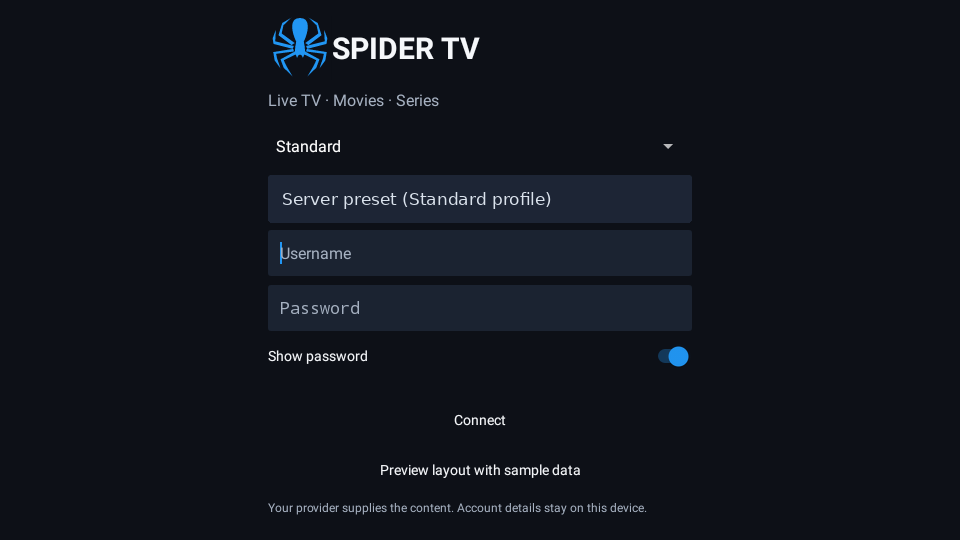
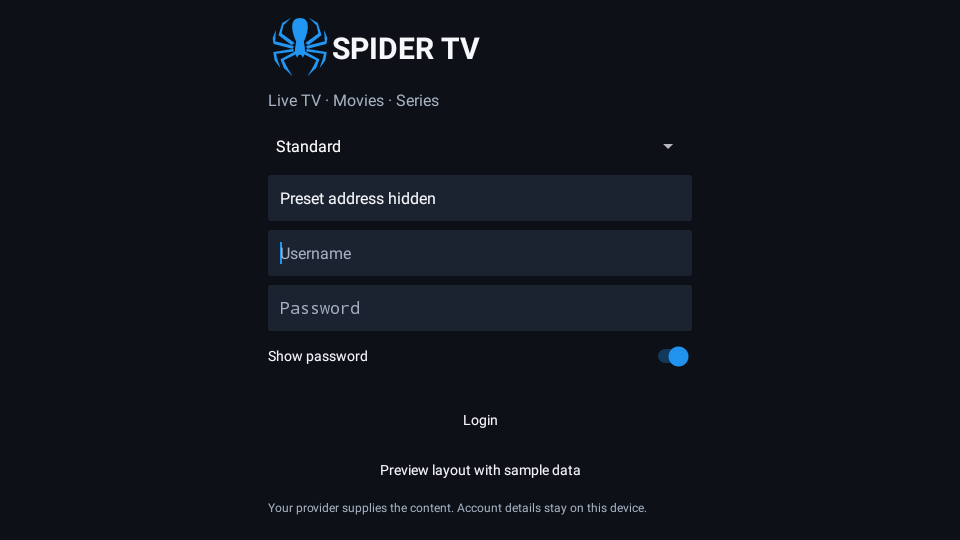
Document automatic Spider EPG and simplified test app login

Changed region(s): [[0.2812, 0.3556, 0.7188, 0.4148], [0.4688, 0.7704, 0.5312, 0.8]]

diff --git a/index.html b/index.html
@@ -4,7 +4,7 @@
 <meta charset="utf-8">
 <meta name="viewport" content="width=device-width,initial-scale=1,viewport-fit=cover">
 <meta name="theme-color" content="#081020">
-<meta name="description" content="SpiderTV Test setup instructions for Android TV, ONN 4K and compatible Fire TV devices. Install, connect your account, and add an EPG guide.">
+<meta name="description" content="SpiderTV Test setup instructions for Android TV, ONN 4K and compatible Fire TV devices. Install, log in, and get your TV guide automatically.">
 <meta property="og:title" content="SpiderTV | Setup Guide">
 <meta property="og:description" content="Easy steps to install SpiderTV, connect your account and set up the TV guide.">
 <meta property="og:image" content="assets/share-preview.jpg">
@@ -21,23 +21,21 @@
 </head><body>
 <nav><div class="nav-wrap"><a class="brand" href="#top"><img class="spider" src="assets/spidertv-logo.png" alt="SpiderTV spider logo"> SPIDER TV</a><div class="nav-links"><a href="#install">Install</a><a href="#login">Sign in</a><a href="#guide">EPG guide</a><a href="#help">Help</a></div></div></nav>
 <main id="top" class="wrap">
-<section class="hero" aria-label="SpiderTV setup"><div><div class="eyebrow">Android TV + compatible Fire TV · Test edition</div><h1>Your SpiderTV <span>setup guide.</span></h1><p class="lead">Follow the pictures to install the app, sign in with your account, and add TV guide information. No computer needed on your TV.</p><div class="buttons"><a class="btn" href="#install">Start setup <span aria-hidden="true">↓</span></a><a class="btn alt" href="https://github.com/coldspider13/SpiderTV-Test-Downloads/releases/latest/download/SpiderTV-Test-debug.apk" target="_blank" rel="noopener">Get the test APK ↗</a></div><div class="note">This is the <b>SpiderTV Test</b> app, not the regular SpiderTV installation. It can install alongside your existing SpiderTV. Use only an account and EPG link that you are authorized to access.</div></div><div class="hero-art"><img src="assets/spidertv-logo.png" alt="Blue SpiderTV spider logo and name"><div class="sub"><span>Simple instructions for your TV</span><span class="pill">BETA GUIDE</span></div></div></section>
-<section class="section" aria-label="Before you start"><div class="section-head"><span class="eyebrow">Before you start</span><h2>Have these ready</h2></div><div class="quick"><article><span class="number">1</span><strong>ONN 4K or compatible Fire TV</strong><p>Connect the device to Wi‑Fi and have its remote nearby.</p></article><article><span class="number">2</span><strong>Your SpiderTV account details</strong><p>You'll need the username and password provided to you privately.</p></article><article><span class="number">3</span><strong>Your TV guide link</strong><p>If you received a separate EPG/XMLTV URL, keep it handy. It may be a long web address.</p></article></div></section>
+<section class="hero" aria-label="SpiderTV setup"><div><div class="eyebrow">Android TV + compatible Fire TV · Test edition</div><h1>Your SpiderTV <span>setup guide.</span></h1><p class="lead">Open Downloader, enter <b>2240676</b>, then install and open SpiderTV Test. Enter your username and password and select <b>Login</b>. SpiderTV sets up the TV guide automatically.</p><div class="buttons"><a class="btn" href="#install">Start setup <span aria-hidden="true">↓</span></a><a class="btn alt" href="https://github.com/coldspider13/SpiderTV-Test-Downloads/releases/latest/download/SpiderTV-Test-debug.apk" target="_blank" rel="noopener">Get the test APK ↗</a></div><div class="note"><b>SpiderTV Test</b> installs alongside your existing SpiderTV app. You can start watching as soon as your channels load while the guide downloads in the background.</div></div><div class="hero-art"><img src="assets/spidertv-logo.png" alt="Blue SpiderTV spider logo and name"><div class="sub"><span>Simple instructions for your TV</span><span class="pill">BETA GUIDE</span></div></div></section>
+<section class="section" aria-label="Before you start"><div class="section-head"><span class="eyebrow">Before you start</span><h2>Have these ready</h2></div><div class="quick"><article><span class="number">1</span><strong>ONN 4K or compatible Fire TV</strong><p>Connect the device to Wi‑Fi and have its remote nearby.</p></article><article><span class="number">2</span><strong>Your SpiderTV account details</strong><p>You'll need the username and password provided to you privately.</p></article><article><span class="number">3</span><strong>Downloader by AFTVnews</strong><p>Install Downloader on your TV if it is missing. The setup code is <b>2240676</b>.</p></article></div></section>
 <section id="install" class="section"><div class="section-head"><span class="eyebrow">Part 1 · Installation</span><h2>Install SpiderTV Test</h2><p>These steps work with <b>Downloader by AFTVnews</b> on supported Android TV and Fire TV devices.</p></div>
 <div class="step"><div class="steptext"><span class="tag">Step 1</span><h3>Get the Downloader app</h3><ol><li>From your TV home screen, open the app store.</li><li>Search for <b>Downloader by AFTVnews</b> (orange app icon).</li><li>Choose <b>Install</b>, then <b>Open</b>.</li></ol><p>ONN 4K: use Google Play. Fire TV: use the Amazon Appstore if Downloader is offered on your device.</p></div><figure class="shot"><div class="mock"><div class="mocktitle">TV app store</div><div class="field">🔎 &nbsp; Search apps</div><div class="field focused" style="font-size:1.05rem;letter-spacing:0">Downloader by AFTVnews</div><div class="action">Install → Open</div></div><figcaption>Illustration of the app-store search. Your TV's actual app store may look different.</figcaption></figure></div>
 <div class="step reverse"><div class="steptext"><span class="tag">Step 2</span><h3>Enter the SpiderTV code</h3><ol><li>Open <b>Downloader</b>.</li><li>Select its URL / short-code box.</li><li>Enter <b>2240676</b>, then choose <b>Go</b>.</li><li>Let the APK download.</li></ol><div class="codebox"><div><small>Downloader code</small><div class="bigcode">2240676</div></div><button class="copy" type="button" data-copy="2240676">Copy code</button></div></div><figure class="shot"><div class="mock"><div class="mocktitle">Downloader</div><div class="tiny" style="text-align:center;color:#b7c8dd">Enter a URL or short code</div><div class="field focused">2240676</div><div class="action">Go</div></div><figcaption>Illustration of where to type the code in Downloader.</figcaption></figure></div>
 <div class="step"><div class="steptext"><span class="tag">Step 3</span><h3>Install and open SpiderTV</h3><ol><li>When the file finishes downloading, choose <b>Install</b>.</li><li>If your TV blocks it, open <b>Settings</b> on the prompt and allow Downloader to <b>Install unknown apps</b>.</li><li>Return to the installer, choose <b>Install</b>, then <b>Open</b>.</li></ol><div class="note warning">Only allow the install from Downloader when you are using the SpiderTV code given here. The exact permission wording varies by device.</div></div><figure class="shot"><div class="mock"><div class="mocktitle">TV installation permission</div><div class="field">Install unknown apps</div><div class="field focused" style="font-size:1.03rem;letter-spacing:0">Downloader &nbsp; ● ON</div><div class="action">Back → Install → Open</div></div><figcaption>Illustration of an Android TV permission screen. Fire TV menus may differ.</figcaption></figure></div></section>
-<section id="login" class="section"><div class="section-head"><span class="eyebrow">Part 2 · Account login</span><h2>Connect your account</h2><p>The account information goes into the SpiderTV app on the television—not into this website.</p></div>
-<div class="step"><div class="steptext"><span class="tag">Step 4</span><h3>Sign in on the SpiderTV screen</h3><ol><li>Open <b>SpiderTV Test</b>.</li><li>Leave <b>Standard</b> selected unless you were told to use a different connection.</li><li>Leave the pre-filled <b>Server address</b> as it is for Standard.</li><li>Enter your <b>Username</b> and <b>Password</b> exactly as provided.</li><li>Select <b>Connect</b>.</li></ol><p>If you were specifically given a custom service address, select <b>Custom</b> and enter that address before connecting.</p><div class="note">Tip: username and password are case-sensitive. The “Show password” switch can help you check what you typed.</div></div><figure class="shot"><button type="button" class="zoom" aria-label="Open larger SpiderTV sign-in screenshot" data-img="assets/spider-login.png"><img loading="lazy" src="assets/spider-login.png" alt="SpiderTV sign-in screen showing Standard, server address, Username, Password, Show password, and Connect"></button><figcaption>Actual SpiderTV reference screenshot. Server preset has been masked for this public guide. Tap to enlarge.</figcaption></figure></div>
-<div class="step reverse"><div class="steptext"><span class="tag">Step 5</span><h3>Wait for your categories to load</h3><ol><li>Once connected, look for <b>TV</b>, <b>Movies</b>, and <b>Shows</b>.</li><li>Move with the remote arrows.</li><li>Select <b>TV</b> to enter Live TV and the channel guide.</li></ol><p>The first channel catalog load can take longer than later launches. You should not have to type your account details every time you open the app.</p></div><figure class="shot"><button type="button" class="zoom" aria-label="Open larger SpiderTV main menu screenshot" data-img="assets/spider-menu.png"><img loading="lazy" src="assets/spider-menu.png" alt="SpiderTV main menu with TV, Movies, Shows and Settings on the left"></button><figcaption>SpiderTV reference main menu. The current test build may have larger fonts and different spacing.</figcaption></figure></div></section>
-<section id="guide" class="section"><div class="section-head"><span class="eyebrow">Part 3 · TV guide</span><h2>Add your EPG guide</h2><p>EPG means Electronic Program Guide. It's the information that shows what's on each channel and when it starts.</p></div>
-<div class="step"><div class="steptext"><span class="tag">Step 6</span><h3>Open EPG settings</h3><ol><li>From the SpiderTV menu, choose <b>Settings</b>.</li><li>Select <b>EPG / TV guide</b>.</li><li>Choose <b>EPG sources</b>.</li></ol><p>If your IPTV provider already supplies program information, the provider EPG switch may be all you need. If you received a separate EPG URL, continue to Step 7.</p></div><figure class="shot"><button type="button" class="zoom" aria-label="Open larger SpiderTV EPG settings screenshot" data-img="assets/spider-epg-settings.png"><img loading="lazy" src="assets/spider-epg-settings.png" alt="SpiderTV Settings showing EPG / TV guide selected and the EPG sources option highlighted"></button><figcaption>Actual SpiderTV EPG settings reference screenshot. Tap to enlarge.</figcaption></figure></div>
-<div class="step reverse"><div class="steptext"><span class="tag">Step 7</span><h3>Enter your separate EPG link</h3><ol><li>Choose <b>Add EPG URL</b>.</li><li>Enter a name, such as <b>My TV Guide</b>.</li><li>Enter the <b>full XMLTV / EPG URL</b> you were given, with no extra spaces.</li><li>Leave <b>Enabled</b> turned on.</li><li>Select <b>Save</b>.</li></ol><p>Saving the URL should start an EPG update. If nothing happens, return to EPG settings and choose <b>Update EPG</b>.</p><div class="note warning">The EPG URL may contain a private token. Do not post it in a public chat or support screenshot.</div></div><figure class="shot"><div class="source-card"><strong>Add EPG URL</strong><span class="tiny">Source name</span><div class="field">My TV Guide</div><span class="tiny">XMLTV URL</span><div class="field">https://example.com/guide.xml</div><div class="field">Enabled &nbsp;&nbsp; ● ON</div><div class="action">Save</div></div><figcaption>Illustration based on SpiderTV's EPG editor fields. Do not enter this example URL.</figcaption></figure></div>
-<div class="step"><div class="steptext"><span class="tag">Step 8</span><h3>Let the guide finish its first update</h3><ol><li>Return to <b>EPG / TV guide</b> and open <b>Update EPG</b> if needed.</li><li>Watch the update status as programs download and save.</li><li>When finished, select <b>Open TV guide</b> or return to <b>TV</b>.</li><li>For normal use, you can set the update interval to <b>12 hours</b>.</li></ol><p>The first import can take several minutes with a large guide. In testing, a guide with about 400,000 programs took approximately eight minutes. Later launches should reuse saved guide information.</p><div class="note">Don't choose <b>Clear EPG</b> unless you're intentionally deleting your guide.</div></div><figure class="shot"><button type="button" class="zoom" aria-label="Open larger TV guide screenshot" data-img="assets/spider-guide.png"><img loading="lazy" src="assets/spider-guide.png" alt="SpiderTV example guide showing channel names and EPG program boxes"></button><figcaption>Example of the SpiderTV program grid (sample channels, not a real playlist). Tap to enlarge.</figcaption></figure></div>
-<div class="note">Missing program information on some channels? The IPTV channel may not match an EPG listing automatically. In the TV guide, long-press that channel and choose <b>Assign EPG</b> to match it to a listing from your downloaded source.</div>
+<section id="login" class="section"><div class="section-head"><span class="eyebrow">Part 2 · Account login</span><h2>Connect your account</h2><p>Enter your account information in the SpiderTV app on your TV.</p></div>
+<div class="step"><div class="steptext"><span class="tag">Step 4</span><h3>Sign in on the SpiderTV screen</h3><ol><li>Open <b>SpiderTV Test</b>.</li><li>Leave <b>Standard</b> selected unless you were told to use a different connection.</li><li>Leave the pre-filled <b>Server address</b> as it is for Standard.</li><li>Enter your <b>Username</b> and <b>Password</b> exactly as provided. The keyboard checkmark closes the keyboard and moves to the next field or button.</li><li>Select <b>Login</b>.</li></ol><p>If you were specifically given a custom service address, select <b>Custom</b> and enter that address before connecting.</p><div class="note">Tip: username and password are case-sensitive. The “Show password” switch can help you check what you typed.</div></div><figure class="shot"><button type="button" class="zoom" aria-label="Open larger SpiderTV sign-in screenshot" data-img="assets/spider-login.png"><img loading="lazy" src="assets/spider-login.png" alt="SpiderTV sign-in screen showing Standard, server address, Username, Password, Show password, and Login"></button><figcaption>Actual SpiderTV reference screenshot. Server preset has been masked for this public guide. Tap to enlarge.</figcaption></figure></div>
+<div class="step reverse"><div class="steptext"><span class="tag">Step 5</span><h3>Start watching</h3><ol><li>Once connected, look for <b>TV</b>, <b>Movies</b>, and <b>Shows</b>.</li><li>Move with the remote arrows.</li><li>Select <b>TV</b> to enter Live TV and the channel guide.</li></ol><p>When the channels appear, select one to watch. SpiderTV adds <b>Spider EPG</b> and downloads the first guide in the background. Your saved guide is available on later launches.</p></div><figure class="shot"><button type="button" class="zoom" aria-label="Open larger SpiderTV main menu screenshot" data-img="assets/spider-menu.png"><img loading="lazy" src="assets/spider-menu.png" alt="SpiderTV main menu with TV, Movies, Shows and Settings on the left"></button><figcaption>SpiderTV reference main menu. The current test build may have larger fonts and different spacing.</figcaption></figure></div></section>
+<section id="guide" class="section"><div class="section-head"><span class="eyebrow">Part 3 · TV guide</span><h2>Your guide sets up automatically</h2><p>Spider EPG shows what is on each channel. The first download and import may take several minutes. The default update interval is 12 hours.</p></div>
+<div class="step"><div class="steptext"><h3>Check guide progress</h3><p>Go to <b>Settings → EPG / TV guide</b> to see the latest update status. SpiderTV keeps valid saved listings visible while a new guide imports.</p><p>If a channel still has no listings after the update, long-press it in the TV guide and choose <b>Assign EPG</b> to match it to a downloaded channel.</p></div><figure class="shot"><button type="button" class="zoom" aria-label="Open larger TV guide screenshot" data-img="assets/spider-guide.png"><img loading="lazy" src="assets/spider-guide.png" alt="SpiderTV sample guide with channel names and programme listings"></button><figcaption>Sample channels and programme grid. Tap to enlarge.</figcaption></figure></div>
+<div class="step reverse"><div class="steptext"><span class="tag">Optional troubleshooting</span><h3>Add a different EPG source manually</h3><ol><li>Open <b>Settings → EPG / TV guide → EPG sources</b>.</li><li>Choose <b>Add EPG URL</b> and give the source a name.</li><li>Enter the complete XMLTV URL or choose <b>Paste URL</b> if you copied it.</li><li>Leave <b>Enabled</b> on and select <b>Save</b>. Check <b>Latest update status</b> or select <b>Update EPG</b> if needed.</li></ol><p>Keep certificate validation enabled. If a custom source reports a certificate problem, ask the source operator to check its HTTPS certificate.</p><div class="note warning">Keep private EPG links and tokens out of support screenshots.</div></div><figure class="shot"><button type="button" class="zoom" aria-label="Open larger SpiderTV EPG settings screenshot" data-img="assets/spider-epg-settings.png"><img loading="lazy" src="assets/spider-epg-settings.png" alt="SpiderTV Settings showing the EPG sources option"></button><figcaption>SpiderTV EPG settings. Tap to enlarge.</figcaption></figure></div>
 </section>
 <section id="report" class="section"><div class="section-head"><span class="eyebrow">Tester checklist</span><h2>Did everything work?</h2><p>Check these items and tap <b>Copy my test report</b>. Send the copied text to the person who invited you to test SpiderTV. This page doesn't collect your account information.</p></div><div class="checks"><label><input type="checkbox" data-check="Downloader installed"><span>Downloader installed</span></label><label><input type="checkbox" data-check="SpiderTV Test installed"><span>SpiderTV Test installed</span></label><label><input type="checkbox" data-check="Signed in successfully"><span>Signed in successfully</span></label><label><input type="checkbox" data-check="TV channels loaded"><span>TV channels loaded</span></label><label><input type="checkbox" data-check="EPG downloaded"><span>EPG downloaded</span></label><label><input type="checkbox" data-check="Channel playback worked"><span>Channel playback worked</span></label><label><input type="checkbox" data-check="App reopened correctly"><span>App reopened correctly</span></label><label><input type="checkbox" data-check="Multiview tested"><span>Multiview tested (optional)</span></label></div><button class="btn" type="button" id="copyreport">Copy my test report</button><span id="reportstatus" style="padding-left:12px;color:#89dfce;font-weight:700" aria-live="polite"></span><p class="fine">Please also tell us your device type (ONN or Fire TV), and which step was confusing or failed. Never include your password or EPG token.</p></section>
-<section id="help" class="section faq"><div class="section-head"><span class="eyebrow">Help</span><h2>Common questions</h2></div><details><summary>Downloader says the app cannot be installed.</summary><p>Check that Downloader is allowed to install unknown apps. Then try the install again. Some devices restrict sideloading entirely. Do not uninstall a working SpiderTV installation to troubleshoot this test app.</p></details><details><summary>The username or password is rejected.</summary><p>Check spelling, uppercase/lowercase, and the Standard/Custom connection choice. Ask the person who supplied your account to confirm it is active. Do not put credentials on this website.</p></details><details><summary>Channels work, but the TV guide is blank.</summary><p>Confirm the EPG source is enabled and the first EPG update has finished. If the guide still has gaps, try Assign EPG for a particular channel. Some provider lists do not supply their own guide.</p></details><details><summary>Can I use a single connection for Multiview?</summary><p>Some providers limit simultaneous streams. If you have one connection, adding another video may fail. Check your account's connection allowance before testing Multiview.</p></details><details><summary>Do I need to reinstall the app after every update?</summary><p>The test app should update in place when the package name, signing certificate and version code remain compatible. Install the latest build using the same Downloader code when your tester invites you to update.</p></details></section>
+<section id="help" class="section faq"><div class="section-head"><span class="eyebrow">Help</span><h2>Common questions</h2></div><details><summary>Downloader says the app cannot be installed.</summary><p>Check that Downloader is allowed to install unknown apps. Then try the install again. Some devices restrict sideloading entirely. Do not uninstall a working SpiderTV installation to troubleshoot this test app.</p></details><details><summary>The username or password is rejected.</summary><p>Check spelling, uppercase/lowercase, and the Standard/Custom connection choice. Ask the person who supplied your account to confirm it is active. Do not put credentials on this website.</p></details><details><summary>Channels work, but the TV guide is blank.</summary><p>Check Latest update status in Settings → EPG / TV guide. If the import finished and a particular channel has no listings, long-press the channel and choose Assign EPG.</p></details><details><summary>Can I use a single connection for Multiview?</summary><p>Some providers limit simultaneous streams. If you have one connection, adding another video may fail. Check your account's connection allowance before testing Multiview.</p></details><details><summary>Do I need to reinstall the app after every update?</summary><p>The test app should update in place when the package name, signing certificate and version code remain compatible. Install the latest build using the same Downloader code when your tester invites you to update.</p></details></section>
 </main>
 <footer class="footer"><div class="wrap"><p><b>SPIDER TV</b> · Independent Android TV player · Setup for invited testers</p><p>No channels or subscription are supplied by this website. Use your own authorized provider account.</p></div></footer>
 <dialog id="lightbox" style="border:1px solid #376185;border-radius:18px;background:#081522;color:white;width:min(96vw,1220px);max-width:1220px;padding:14px;box-shadow:0 40px 100px #000c"><form method="dialog" style="text-align:right"><button class="copy" aria-label="Close screenshot">Close ✕</button></form><img id="largeimg" alt="Enlarged SpiderTV screenshot" style="display:block;max-height:75vh;margin:auto;object-fit:contain"></dialog>
